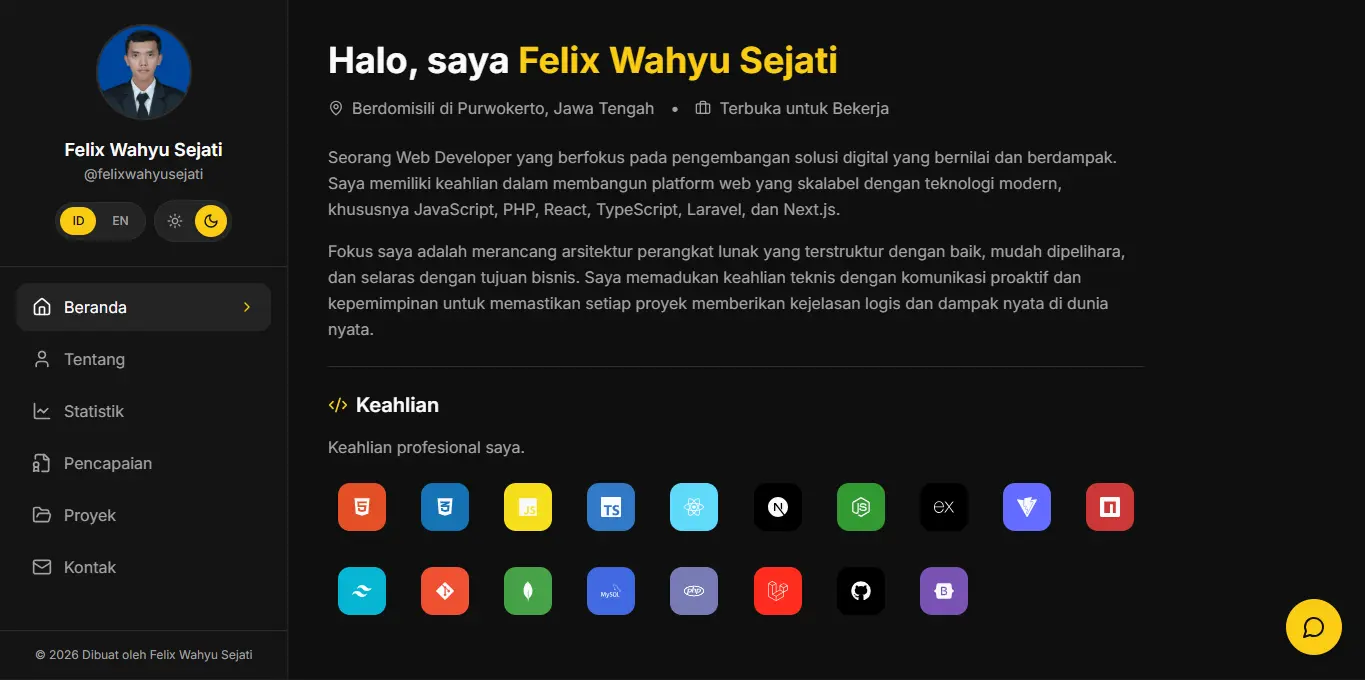
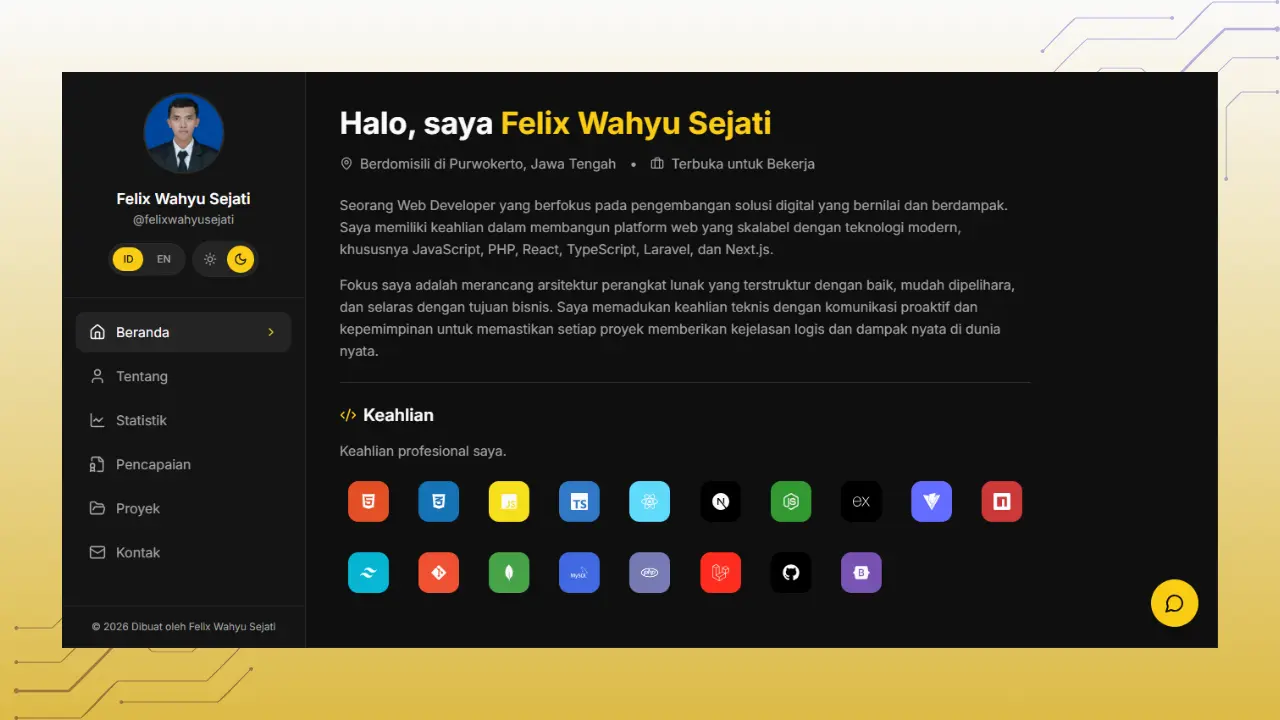
Update rubah file gambar menjadi webp dan ukuran lebih kecil

diff --git a/index.html b/index.html
@@ -7,12 +7,12 @@
     <meta name="description" content="felix personal portofolio website" />
     <meta name="author" content="Felix Wahyu Sejati" />
 
-    <link rel="icon" type="image/png" href="/logos.png" />
+    <link rel="icon" type="image/png" href="/logos.webp" />
 
     <meta property="og:title" content="Felix | Portofolio" />
     <meta property="og:description" content="felix personal portofolio website" />
     <meta property="og:type" content="personal portofolio website" />
-    <meta property="og:image" content="/logos.png" />
+    <meta property="og:image" content="/logos.webp" />
   </head>
 
   <body>

diff --git a/src/components/MobileNav.tsx b/src/components/MobileNav.tsx
@@ -1,6 +1,6 @@
 import { useState } from "react";
 import { Menu, X, Home, User, FileText, Trophy, FolderOpen, Mail } from "lucide-react";
-import profilePhoto from "@/assets/foto-profile.jpg";
+import profilePhoto from "@/assets/foto-profile.webp";
 import ThemeToggle from "./ThemeToggle";
 import LanguageToggle from "./LanguageToggle";
 import { useLanguage } from "./LanguageProvider";

diff --git a/src/components/Sidebar.tsx b/src/components/Sidebar.tsx
@@ -1,5 +1,5 @@
 import { Home, User, FolderOpen, Mail, ChevronRight, ChartLine, FileBadge } from "lucide-react";
-import profilePhoto from "@/assets/foto-profile.jpg";
+import profilePhoto from "@/assets/foto-profile.webp";
 import ThemeToggle from "./ThemeToggle";
 import LanguageToggle from "./LanguageToggle";
 import { useLanguage } from "./LanguageProvider";
